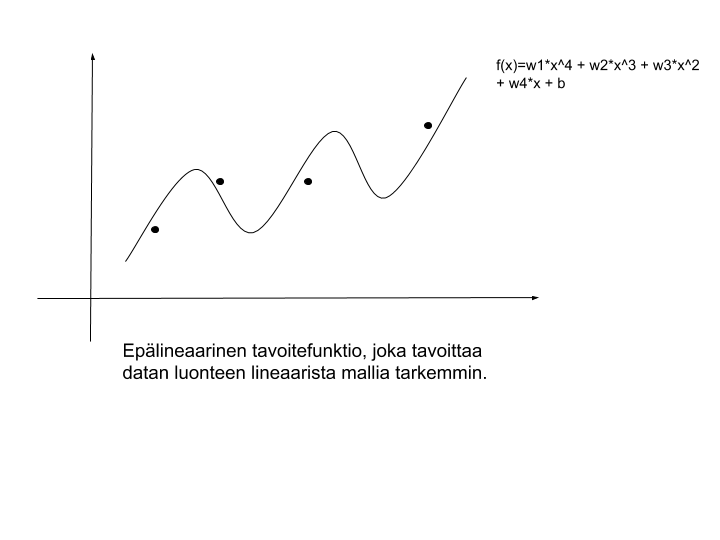
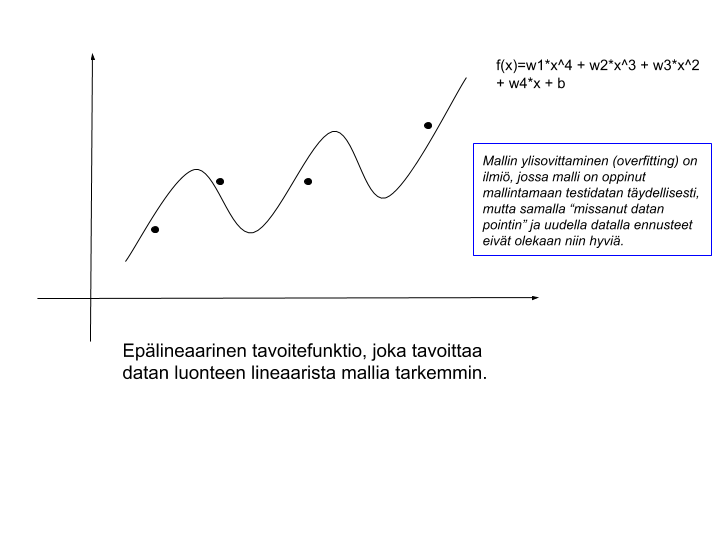
koneoppiminen

Changed region(s): [[0.6722, 0.2667, 0.9778, 0.4741]]

diff --git a/06_koneoppiminen/README.md b/06_koneoppiminen/README.md
@@ -4,7 +4,7 @@
 
 Koneoppimisessa on kyse siitä, että datan avulla tietokone voidaan opettaa ratkaisemaan ongelmia tietyssä toimintaympäristössä ilman varsinaista ohjelmointia. Dataa kyseisestä ongelmakentästä täytyy kuitenkin olla paljon, jotta *koneoppimismalli* voidaan kouluttaa. Ongelmakentän tulee myös olla tarkasti rajattu, eikä samalla datalla koulutettua mallia voida siirtää toisen ongelman ratkaisuun. Termiä *tekoäly* tunnutaan käyttävän monesti myös synonyyminä koneoppimisesta ja toisaalta mikä tahansa tavallinen ohjelmoitu algoritmi saatetaan nykyään luokitella valtamediassa "tekoälyksi". 
 
-Yksinkertaisia ongelmia voi mallintaa lineaarisilla funktioilla. Kerätyn datan perusteella, voimme laskea lineaariselle *tavoitefunktiolle (objective function)* painokertoimet ja tehdä ennusteen uudelle datapisteelle. 
+Yksinkertaisia ongelmia voi mallintaa lineaarisilla funktioilla. Kerätyn datan perusteella, voimme laskea lineaariselle *tavoitefunktiolle (objective function)* painokertoimet ja tehdä ennusteen uudelle datapisteelle. Rakennetun mallin hyvyyttä voidaan mitata esimerkiksi [Root Mean Square Error](https://en.wikipedia.org/wiki/Root-mean-square_deviation):lla (eli lasketaan toteutumien ja ennustefunktion antamien arvojen erotusten (keltaiset viivat kuvassa) neliöiden summa, jaetaan se toteutumien määrällä (3 kpl kuvassa) ja otetaan neliöjuuri tästä).
 ![lineaarinen tavoitefunktio](img/lineaarinen_tavoitefunktio.png)
 
 Usein reaalimaailman asiat ja ilmiöt ovat sen verran monimutkaisia, että lineaarinen ennustemalli olisi hyvin epätarkka. Tällöin voidaan käyttää sen sijaan epälineaarista tavoitefunktiota.
@@ -25,39 +25,58 @@ Koneen opettamiseen on kolme erilaista tapaa, **ohjattu oppiminen, ohjaamaton op
 
 ![Ohjaamaton oppiminen](img/ohjaamaton_oppiminen.png) 
 
-Ohjattu ja ohjaamaton oppiminen toimivat siis alla olevassa kuvassa esitettyjen vaiheiden mukaisesti.
+Ohjattu ja ohjaamaton oppiminen toimivat siis alla olevassa kuvassa esitettyjen vaiheiden mukaisesti. 
 ![koneoppimisen vaiheet](img/koneoppimisen_vaiheet.png) 
 
 **Vahvistusoppimisessa (reinforcement learning)** koneen annetaan itse kokeilla ja tehdä virheitä "keppi ja porkkana"-mallilla. Vahvistusoppimista varten rakennetaan simulaatioympäristö, jossa koneelle annetaan pisteitä sen toiminnasta. Vahvistusoppiminen toimii hyvin esimerkiksi erilaisten pelien, vaikkapa shakin, kouluttamisessa. Tietokone voi pelata miljoonia pelejä itseään vastaan ja "simulaatioympäristö" antaa palautetta yksinkertaisimmillaan vain siitä, voittiko kone pelin. Monessa oikean maailman ongelmassa palautesykli koneen tekemien valintojen ja onnistumisen välillä voi olla hyvin pitkä (helposti vaikka useita viikkoja), jolloin kone oppii hyvin hitaasti. Samaten simulaatioympäristön rakentaminen voi olla haastavaa. Käytännön maailmassa itseajavia autoja pyritään kouluttamaan vahvistusoppimisen avulla. Ihminen voi siis esimerkiksi istua auton kyydissä ja antaa jatkuvasti pisteitä koneen tekemistä valinnoista.
 
-![koneoppimisen vaiheet](img/vahvistusoppiminen.png) 
+![koneoppimisen vaiheet](img/vahvistusoppiminen.png)
+
+### Kuvadatan muokkaaminen
+
+Jotta kone voi oppia esimerkiksi kuvadatasta, pitää kuvadata muokata koneen ymmärtämään matriisimuotoon. Yksinkertainen esimerkki mustavalkoisesta hymynaamakuvasta voisi olla jotain alla olevan kaltaista. Eri harmaan sävyt kuvassa (0-255) on siis esitetty numeroina. Jokainen matriisin solu vastaa yhtä pikseliä kuvassa.
+
+![Hymynaama](img/hymynaama.png)
 
 ## Koneoppiminen käytännössä
-<!--
-Koneoppimiseen liitty useita kirjastoja ja työkaluja, joilla kaikilla on oma roolinsa koneoppimismallien rakentamisessa ja havainnollistamisessa.
 
-Jupyter on..
-TensorFlow on kirjasto *moniulotteisten taulukoiden (~tensoreiden)* käsittelyyn eli tensorilaskentaan. TensorFlown *operaatioilla* (esim tf.add()) voidaan muokata tensoreita. Tensorit kulkevat *graafien* läpi, jotka muokkaavat tensoreita operaatioilla. Usein edellisen operaation läpikäyneestä ulostulo-tensorista tulee seuraavaan operaation sisäänmeno-tensori. Graafit tulee ajaa TensorFlow *sessiossa*, joskin TensorFlow 2:ssa ei enää (https://www.tensorflow.org/guide/effective_tf2). TensorFlown käsitteiden ja käytön opettelu vaatii hieman aikaa. (https://colab.research.google.com/notebooks/mlcc/tensorflow_programming_concepts.ipynb). 
-Pandas (Panda on työkalu erityisesti kolumni-muotoisen datan käsittelyyn. Pandas:lla voi ladata dataa (esim CSV-tiedostoista) ja esittää sitä myös graafeina).
-Numpy (https://numpy.org/) Kirjaston numeroiden käsittelyyn Pythonilla.
-sklearn Metriikoiden laskemiseen ja tulostamiseen datasta.
-matplotlib Kirjasto datasettien visualisointiin.
-Keras
+Koneoppimiseen liitty useita kirjastoja ja työkaluja, joilla kaikilla on oma roolinsa koneoppimismallien rakentamisessa tai havainnollistamisessa.
 
-Ibm Watson
+1. [Python](https://www.python.org/) on ohjelmointikieli, jolla on kirjoitettu lukuisia koneoppimiseen liittyviä kirjastoja ja rajapintoja. Suurin osa koneoppimisohjelmista ohjelmoidaan Pythonilla. 
+1. [Jupyter Notebook](https://jupyter.org/) on työkalu, jolla voi kirjoittaa koodia, tehdä dokumentointia, piirtää graafeja jne. Se on vähän kuin steroideja syönyt tekstieditori. Selkeyttää ja visualisoi koneoppimismallien rakentamista. 
+1. [TensorFlow](https://www.tensorflow.org/) on kirjasto ensisijaisesti *moniulotteisten taulukoiden (~tensoreiden)* käsittelyyn eli tensorilaskentaan. TensorFlow:n ympärille on rakentunut vähitellen kokonainen koneoppimiseen liittyvä ekosysteemi. TensorFlown *operaatioilla* (esim tf.add()) voidaan muokata tensoreita. Tensorit kulkevat *graafien* läpi, jotka muokkaavat tensoreita operaatioilla. Usein edellisen operaation läpikäyneestä ulostulo-tensorista tulee seuraavaan operaation sisäänmeno-tensori. Graafit tulee ajaa TensorFlow *sessiossa*, joskin uudessa [TensorFlow 2:ssa](https://www.tensorflow.org/guide/effective_tf2) ei enää. [TensorFlown käsitteiden](https://colab.research.google.com/notebooks/mlcc/tensorflow_programming_concepts.ipynb) ja käytön opettelu vaatii hieman aikaa. TensorFlown omat tutoriaalit löytyvät [täältä](https://www.tensorflow.org/tutorials). [PyTorch](https://pytorch.org/) on kilpaileva vaihtoehto TensorFlow:lle. 
+1. [Keras](https://keras.io/) on melko korkean abstraktiotason (=helppokäyttöinen) kirjastorajapinta neuroverkkojen rakentamiseen ja siten sitä käytetään esimerkiksi kuvantunnistuksen yhteydessä. Nykyisin Keras sisältyy suoraan TensorFlow:hun.
+1.  [Pandas](https://pandas.pydata.org/) on työkalu erityisesti kolumni-muotoisen datan käsittelyyn. Pandas:lla voi ladata dataa (esim CSV-tiedostoista) ja esittää sitä myös graafeina. 
+1. [Numpy](https://numpy.org/) on kirjasto numeroiden käsittelyyn Pythonilla.
+1. [Scikit-learn](https://scikit-learn.org/stable/) on kirjasto metriikoiden laskemiseen ja tulostamiseen datasta.
+1. [Matplotlib](https://matplotlib.org/) on kirjasto datasettien visualisointiin.
+1. [Google Colaboratory](https://colab.research.google.com/notebooks/intro.ipynb) on selaimessa pyörivä ympäristö, jossa voi ajaa yllä kuvattuja työkaluja asentamatta niitä itse. Colaboratoryssä tehtyjä Notebookkeja voi jakaa Google driven kautta helposti muille. 
+1. [Ibm:n Watson Assistant](https://www.ibm.com/cloud/watson-assistant/) on esimerkiksi yksi koneoppimiseen perustuva helposti käytettävä ja kehittynyt luonnollisen kielen tulkintaan keskittyvä palvelu, jonka voi konfiguroida omiin tarpeisiinsa jopa ilman ohjelmointitaitoja.
 
-Koneoppimiskirjastojen rajapinnat eivät ole vielä valitettavasti kehittyneet aivan yhtä korkealle abstraktiotasolle (ja helppokäyttöisiksi) kuin esimerkikiksi webohjelmointiin liittyvät kirjastot. Kuten muussakin ohjelmoinnissa, hyvä tapa lähteä liikkeelle koneoppimismallien rakentamisessa on pyrkiä etsimään esimerkki, joka tekee melkein saman asian jota itse yrittää tehdä ja sitten muokata esimerkkiä omiin tarpeisiin sopivaksi.
+Jos yllä olevat koneoppimiskirjastot haluaa asentaa oikeasti omalle koneelleen, eikä vain pyörittää niitä selaimessa, niin esimerkiksi [tässä blogissa](https://medium.com/@margaretmz/anaconda-jupyter-notebook-tensorflow-and-keras-b91f381405f8) on siihen hyvät ohjeet.
 
--->
-<!---käytetään tällä kurssilla (ainakin ennen seminaaria) googlen colab online-ympäristöä ja esimerkkejä sieltä-->
+Yleisesti on todettava, että koneoppimiskirjastojen rajapinnat eivät ole vielä valitettavasti kehittyneet aivan yhtä korkealle abstraktiotasolle (ja helppokäyttöisiksi) kuin esimerkikiksi webohjelmointiin liittyvät kirjastot. Kuten muussakin ohjelmoinnissa, hyvä tapa lähteä liikkeelle koneoppimismallien rakentamisessa on pyrkiä etsimään esimerkki, joka tekee melkein saman asian jota itse yrittää tehdä ja sitten muokata esimerkkiä omiin tarpeisiin sopivaksi. Internetistä löytyy paljon esimerkiksi Googlen Colaboratoryllä tehtyjä esimerkkipohjia erilaisiin koneoppimisskenaarioihin.
 
+Tällä kurssilla havainnollistetaan koneoppimista käytännössä seuraavien Colaboratory notebookkien avulla:
 
-<!--(käydään läpi työkalustack ja eri työkalujen erot, jotka voitaisiin asentaa itselle condalla, ks blogi) Keras, tensorflow, jupyter, pandas, numpy, ibm watson, kuten esim https://medium.com/@margaretmz/anaconda-jupyter-notebook-tensorflow-and-keras-b91f381405f8-->
+1. [Pandas-kirjaston perusteet](https://colab.research.google.com/notebooks/mlcc/intro_to_pandas.ipynb#scrollTo=av6RYOraVG1V) <!--datasettinä https://download.mlcc.google.com/mledu-datasets/california_housing_train.csv-->
+1. [TensorFlow:n peruskäsitteet](https://colab.research.google.com/notebooks/mlcc/tensorflow_programming_concepts.ipynb)
+1. [Lineaarisen mallin rakentamienn TensorFlow:lla](https://colab.research.google.com/drive/1gdnOajkVQ66tupq5peMEDoQE3ubkgOl6#scrollTo=ajVM7rkoYXeL)
+1. [Neuroverkon rakentaminen TensoFlow:lla](https://colab.research.google.com/notebooks/mlcc/intro_to_neural_nets.ipynb#scrollTo=AGOM1TUiKNdz)
 
-<!---tensorit selitetään (moniulotteinen taulukko)-->
+Lisäksi sivutaan lyhyesti näitä esimerkkiä:
+1. [Kuvadatan käsittelyä Keraksella ja TensorFlow2:lla](https://colab.research.google.com/github/tensorflow/docs/blob/master/site/en/tutorials/quickstart/beginner.ipynb)
+1. [Facebookin detectron kuvantunnistuskirjaston käyttämistä käytännössä](https://colab.research.google.com/drive/16jcaJoc6bCFAQ96jDe2HwtXj7BMD_-m5)
+1. [Kuvadatasta kissojen ja koirien tunnistamista](https://colab.research.google.com/github/google/eng-edu/blob/master/ml/pc/exercises/image_classification_part1.ipynb)
+1. [Kasvojentunnistusta kuvista](https://colab.research.google.com/github/jakevdp/PythonDataScienceHandbook/blob/master/notebooks/05.14-Image-Features.ipynb)
+
+Koneoppimista voi opiskella lisää esimerkiksi Googlen [Machine Learning Crash Coursella](https://developers.google.com/machine-learning/crash-course/).
 
 
 ## Tehtävät
+
+### Seminaaritehtävä 1 (täydennetään seminaarivaiheessa):
+Kouluta koneoppimismalli jostain datasta ja laadi sillä ennusteita. Voi liittyä ohjelmistoprojekti 2:seen mieluusti.
 
 ### Lähteet:
 * Kananen H., Puolitaival H., Tekoäly bisneksen uudet työkalut, Alma Talent, 2019.
